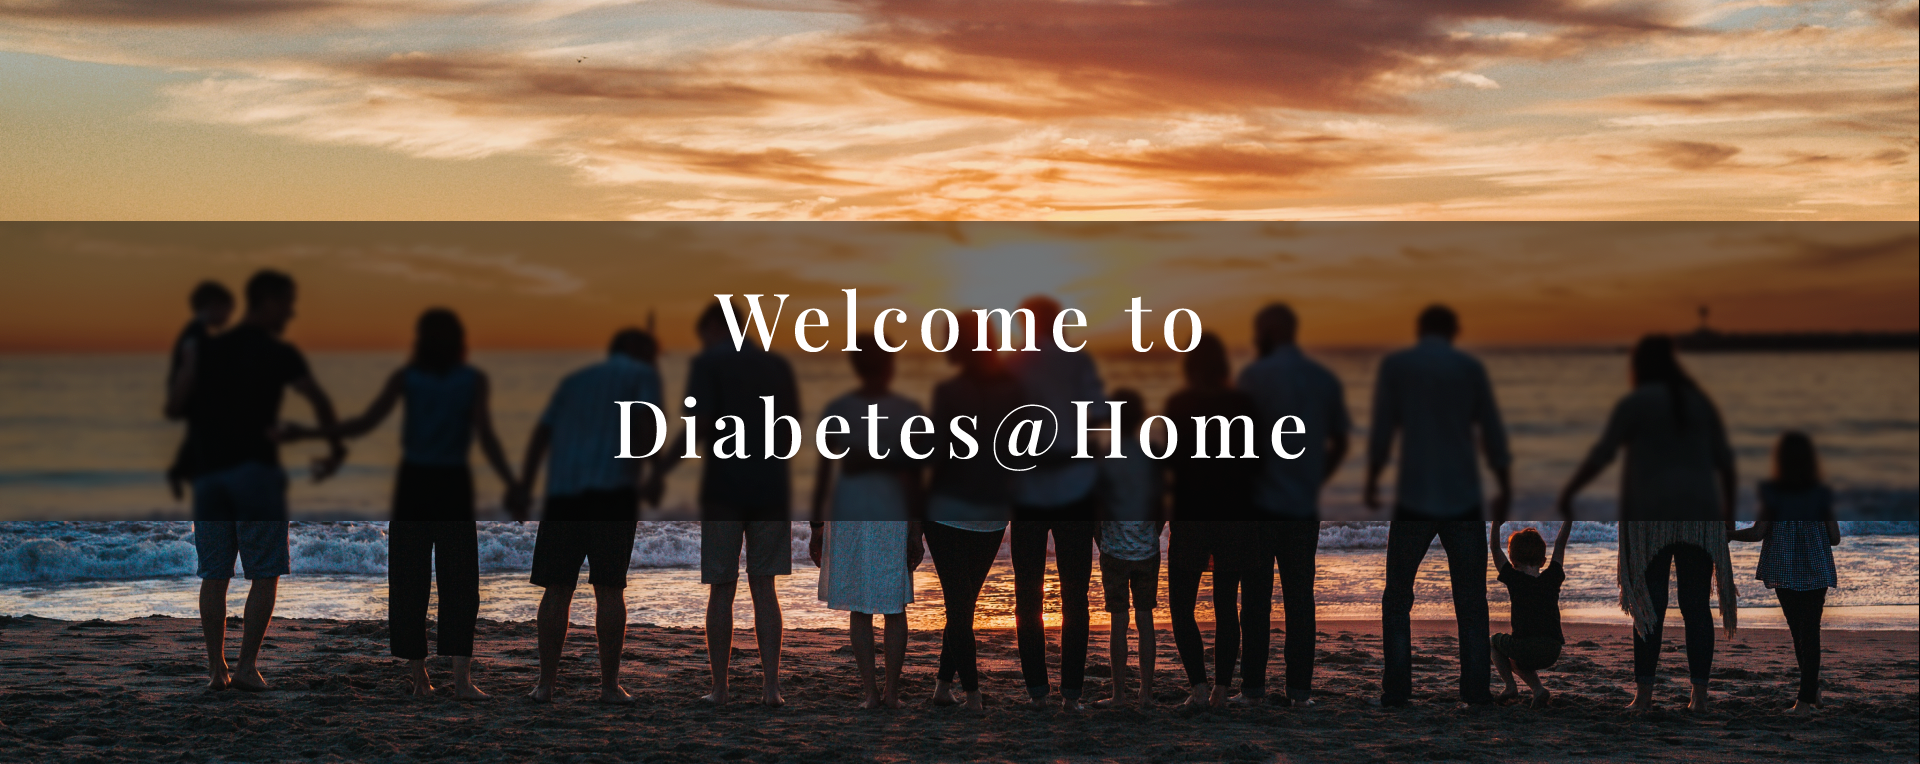
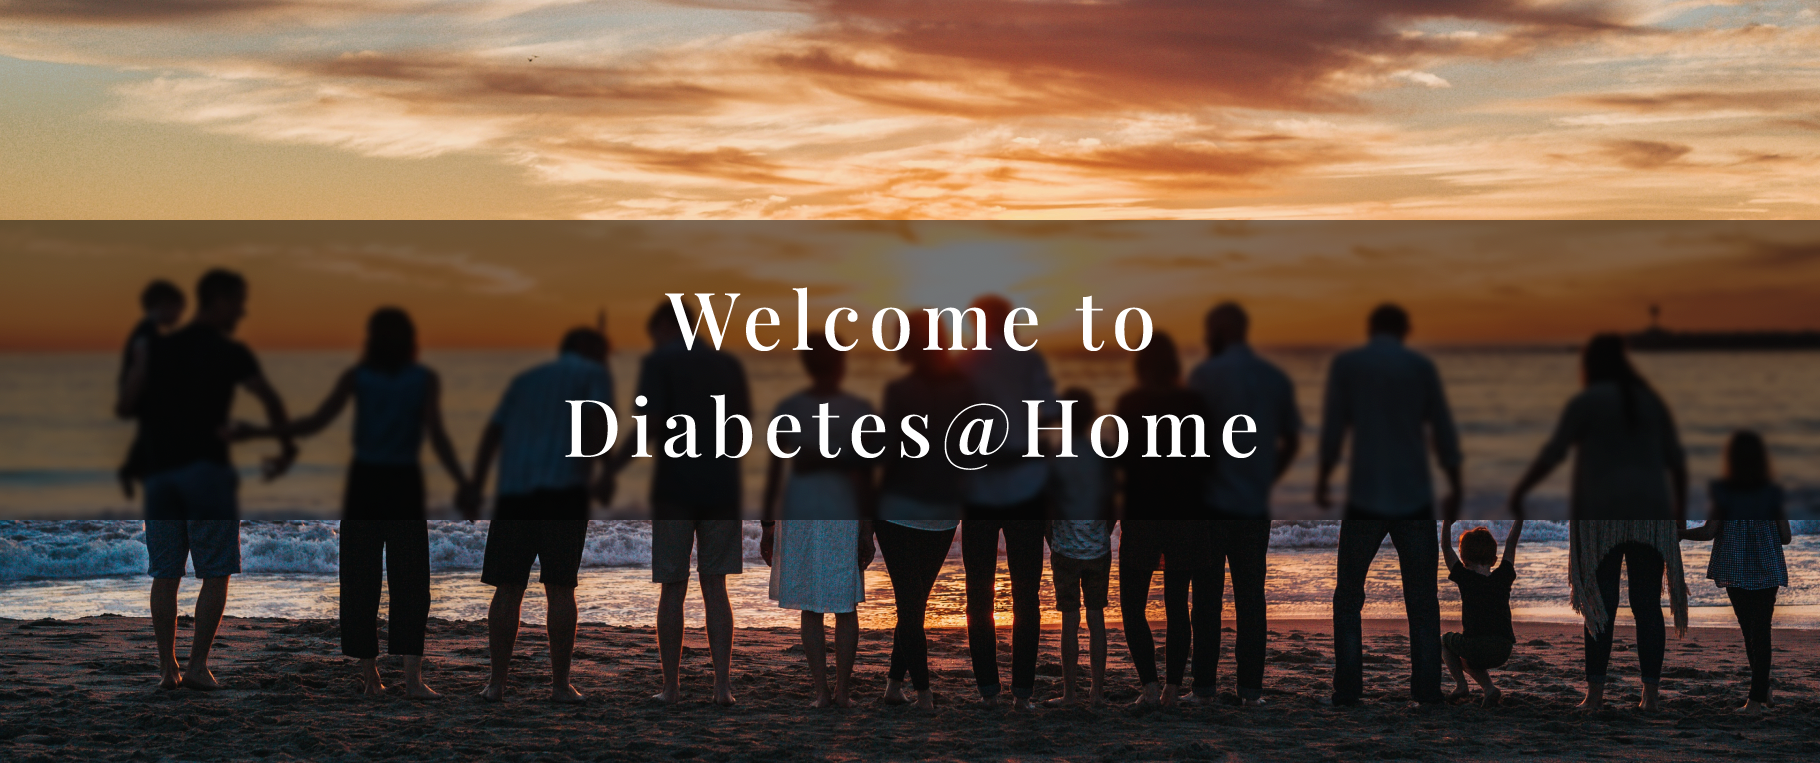
Jesse: Some layout fixing.

diff --git a/public/css/aboutPages.css b/public/css/aboutPages.css
@@ -353,10 +353,12 @@ table {
 
 
   .content .title {
-    /* position: absolute; */
-    /* top: 0;
-    left: 0; */
     width: 100vw;
+    background-image: url('/img/home-mobile.png');
+    background-size: cover;
+    background-position: center;
+    background-repeat: no-repeat;
+    min-height: 420px;
   }
 
   .content .title img {
@@ -598,6 +600,7 @@ table {
     position: relative;
     height: 100%;
     margin-right: 10px;
+    align-items: center;
   }
   #menuButtonMobile{
     display: none;
@@ -739,6 +742,7 @@ table {
     background-color: rgba(243, 240, 238);
     line-height: 1.5; 
     color:#5c4435;
+    min-height: 830px;
   }
 
   .content .title {
@@ -746,6 +750,11 @@ table {
     display: flex;
     justify-content: center;
     background-color: #2c1f18;
+    background-image: url('/img/home.png');
+    background-size: cover;
+    background-position: center;
+    background-repeat: no-repeat;
+    min-height: 830px;
   }
 
   .content .title img {

diff --git a/public/css/patientDashboard.css b/public/css/patientDashboard.css
@@ -175,7 +175,7 @@
         height: 90%;
         background: transparent;
         border: none;
-        padding: 2.5% 0 0 4%;
+        padding: 0.5% 0 0 4%;
     }
     .item-down .not-required{
         margin-top: -5px;
